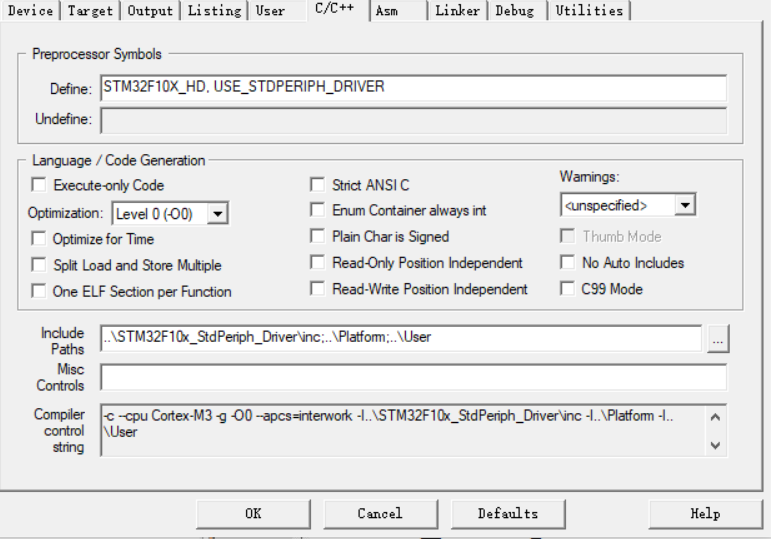
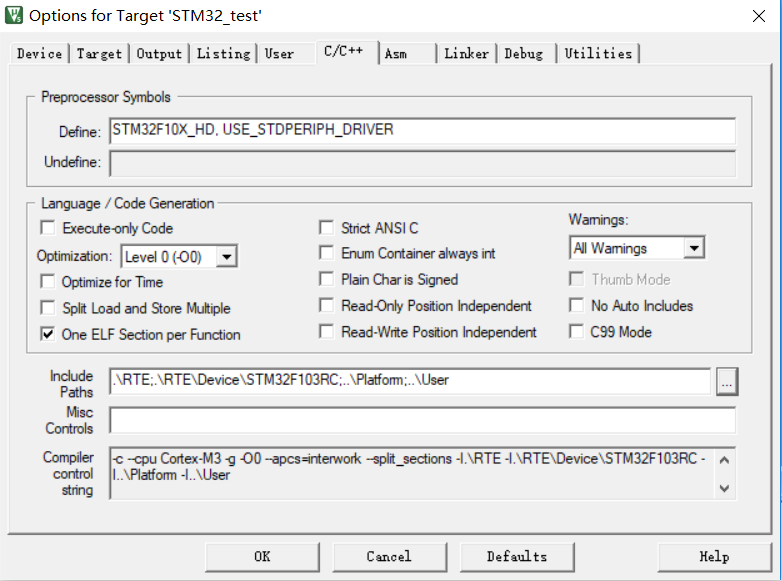
setup2.0
修改工程模板建立的方式，更改了添加固件库的方式

Changed region(s): [[0.0, 0.0, 1.0, 1.0], [0.4047, 0.0, 0.8405, 0.0297]]

diff --git a/src/basic/Setup.md b/src/basic/Setup.md
@@ -6,11 +6,12 @@
 
 ---
 所需文件：
--官方固件包 `STM32F10x_StdPeriph_Lib_V3.5.0.zip`
+-官方固件包 `STM32F10x_StdPeriph_Lib_V3.5.0`
 -Demo文件`STM32-DEMO.zip`
 
 下载地址：
-<http://openedv.com/posts/list/6054.htm>
+<http://www.st.com/internet/com/SOFTWARE_RESOURCES/SW_COMPONENT/FIRMWARE/stm32f10x_stdperiph_lib.zip>
+（选择适用于stm32f1的`stsw-stm32054`下载即可）
 
 ## 基于固件库的MDK5工程模板建立
 1. 在电脑某个目录下建立一个新文件夹，存放之后的工程相关文件，比如`STM32_test`. 在文件夹里建立子文件夹`User`、`Projects`和`Platform`。
@@ -20,13 +21,7 @@
   * `Projects`用于存放工程文件，内部可建立一个`Output`文件夹来保存输出文件
   * `Platform`用于保存端口初始化和中断的操作
 
-2. 打开所需的官方固件包。
-  * 将文件夹`STM32F10x_StdPeriph_Lib_V3.5.0\Libraries\STM32F10x_StdPeriph_Driver`复制到刚刚建立的根文件夹里，作为库文件，其中`src`文件夹存放的是固件库的.c文件，`inc`存放的是对应的.h文件
-
-  * 将文件夹`STM32F10x_StdPeriph_Lib_V3.5.0\Libraries\CMSIS\CM3\DeviceSupport\ST\STM32F10x\startup\arm`中的`startup_stm32f10x_hd.s`复制到刚刚建立的`Projects`文件夹下，是对应于大容量芯片的启动文件
-
-  * 将`STM32F10x_StdPeriph_Lib_V3.5.0\Libraries\CMSIS\CM3\DeviceSupport\ST\STM32F10x`目录下的三个文件`stm32f10x.h`、`system_stm32f10x.c`、`system_stm32f10x.h`和
-  `STM32F10x_StdPeriph_Lib_V3.5.0\Project\STM32F10x_StdPeriph_Template`目录下的`stm32f10x_conf.h`、`stm32f10x_it.c`、`stm32f10x_it.h`、`system_stm32f10x.c`复制到`Platform`文件夹下。
+2. 打开所需的官方固件包文件夹。将 `STM32F10x_StdPeriph_Lib_V3.5.0\Project\STM32F10x_StdPeriph_Template`目录下的`stm32f10x_it.c`、`stm32f10x_it.h`复制到`Platform`文件夹下。
 
 3. 打开软件，在工具栏选择`Project->New Uvision Project`,定位在刚刚建立的`Projects`目录下
 
@@ -37,7 +32,7 @@
 
 ![](../assets/setup-keil/setup-2.png)
 
-5. 点击`OK`，会弹出`Manage Run-Time Environment`对话框，可以添加自己需要的组建方便构建开发环境，此处仅需点击`Cancel`
+5. 点击`OK`，会弹出`Manage Run-Time Environment`对话框，可以添加自己需要的组件方便构建开发环境。在`CMSIS`目录下勾选`CORE`，打开`Device`目录，勾选`Startup`添加启动文件，打开`StdPeriph Drivers`根据需要添加不同的固件库，也可直接勾选所有选项。对于点亮LED的实验来说，只用勾选`EXTI`、`Flash`、`Framwork`、`GPIO`、`RCC`选项即可，对应中断、端口配置、时钟等相关的支持。设置完后点击`OK`。
 
 ![](../assets/setup-keil/setup-3.png)
 
@@ -45,11 +40,11 @@
 
 ![](../assets/setup-keil/setup-4.png)
 
-7. `Project Targets`一栏，双击将`Target 1`改为工程的名字`STM32-test`,在`Groups`一栏删掉`Source Group1`,新建`USER`、`Platform`、`STM32F1Lib`、`StartUp`的`Groups`
+7. `Project Targets`一栏，双击将`Target 1`改为工程的名字`STM32-test`,在`Groups`一栏删掉`Source Group1`,新建`USER`、`Platform`、的`Groups`
 
 ![](../assets/setup-keil/setup-5.png)
 
-8. 选中特定的Groups,点击`Add Files`,定位到刚才建立的目录里。将`Platform`里的.c文件加入到对应的*Group*,将`src`文件里的文件加入到`STM32F1Lib`，将`Projects`里对应的启动文件加入到`StartUp`,注意更改文件类型为`All files`才可以看到.s的文件。
+8. 选中特定的`Groups`,点击`Add Files`,定位到刚才建立的目录里。将`Platform`里的.c文件加入到对应的`Group`,
 点`OK`后就可以看到这样的工程文件系统了。
 
 ![](../assets/setup-keil/setup-6.png)
@@ -102,5 +97,5 @@ Keil5上方工具栏如下图：
 
 点击`OK/确认`回到主界面。自此所有设置结束。
 
-如果是新建工程，那么可以开始主函数文件代码的相关编写。
-如果是利用的`STM32-DEMO`文件，那么可以点击编译按钮，进行编译，没有Error和Warning说明编译成功，点击`LOAD`按钮进行烧写，窗口下方出现进度条，进度条完成后，观察系统板上LED的情况，如果1s亮1s灭循环则说明程序烧写成功。
+以上便是从空白开始新建工程的相关步骤，接下来就可以开始主要代码的编写了。
+如果是复制`STM32-DEMO`文件，那么可以点击编译按钮，进行编译，没有Error和Warning说明编译成功，点击`LOAD`按钮进行烧写，窗口下方出现进度条，进度条完成后，观察系统板上LED的情况，如果1s亮1s灭循环则说明程序烧写成功。
